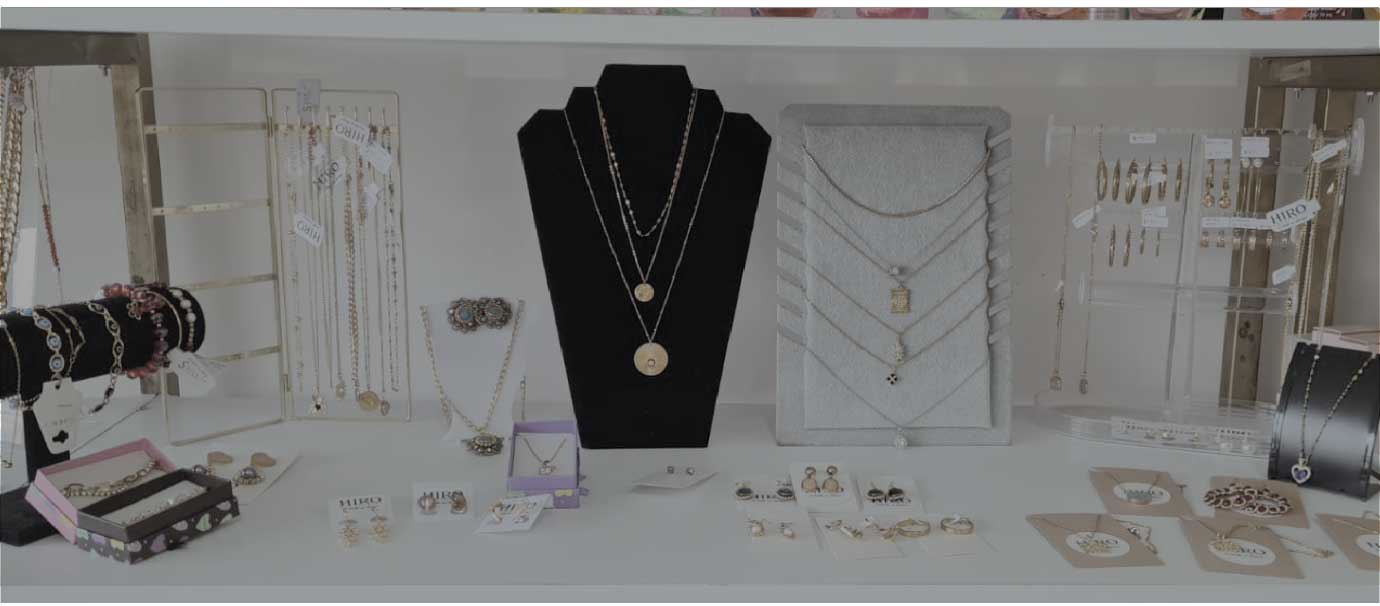
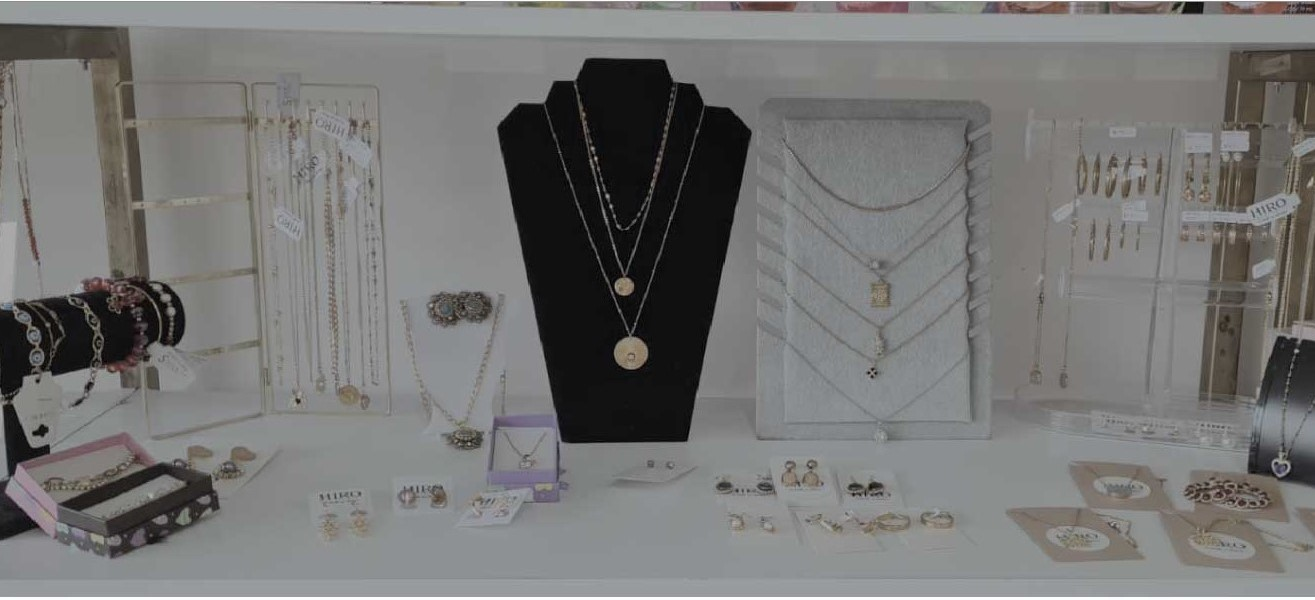
proyecto liisto

diff --git a/index.html b/index.html
@@ -24,13 +24,13 @@
   <header class="menu border-bottom border-dark pb-5">
     <nav class="navbar navbar-expand-lg navbar-light">
       <div class="container-fluid">
-        <img src="./img/logo.png" alt="HIRO">
+        <img src="./img/logo.png" class="mt-3" alt="HIRO">
         <button class="navbar-toggler" type="button" data-bs-toggle="collapse" data-bs-target="#navbarSupportedContent"
           aria-controls="navbarSupportedContent" aria-expanded="false" aria-label="Toggle navigation">
           <span class="navbar-toggler-icon"></span>
         </button>
         <div class="collapse navbar-collapse" id="navbarSupportedContent">
-          <ul class="navbar-nav mx-auto mb-2 mb-lg-0 h3">
+          <ul class="navbar-nav mx-auto mt-4 mb-2 mb-lg-0 h3">
             <li class="nav-item">
               <a class="nav-link active" href="#principal" aria-current="page" href="#">Inicio</a>
             </li>
@@ -61,7 +61,9 @@
       <div class="row pt-5 pb-5 mt-5 mb-5">
         <div class="item puesto pt-5 pb-5 mt-5 mb-5">
           <h1 class="display-1">El detalle que distingue</h1>
-          <h2 class="display-3">Mira nuestra colección</h2>
+          <a href="https://www.instagram.com/p/Cl6zVZzu4UR/" target="_blank">
+            <h2 class="display-4 coleccion">Mira nuestra colección</h2>
+          </a>
         </div>
       </div>
     </div>
@@ -110,55 +112,61 @@
     <div class="container">
       <div class="row">
         <h3 class="mt-5 mb-5 display-3">¡Lo nuevo!</h3>
-        <div class="card col-12 col-md-4 offset-md-2 offset-lg-2">
+        <div class="card col-12 col-md-5 col-lg-4 offset-md-1 offset-lg-1">
           <!--Aquí pon algo-->
           <img src="./img/novedad1.png" class="card-img-top img-fluid rounded" alt="card-img-top">
-          <button type="button" class="btn btn-danger col-6 col-md-6 offset-3 offset-md-3 mt-5 mb-5">¡No te lo pierdas!</button>
-        </div>
-        <div class="card col-12 col-md-4">
+          <div class="boton-novedad mt-5 mb-5">
+            <a href="https://www.instagram.com/hiro_accesorios/" target="_blank">
+              <button type="button" class="btn btn-danger col-7 col-md-6 ">¡Ultimas piezas!</button>
+            </a>
+          </div>
+          
+         </div>
+        <div class="card col-12 col-md-5 col-lg-4 offset-md-1 offset-lg-2">
           <!--Aquí pon algo-->
           <img src="./img/novedad2.png" class="card-img-top img-fluid rounded" alt="card-img-top">
-          <button type="button" class="btn btn-danger col-6 col-md-6 offset-3 offset-md-3 mt-5 mb-5">¡Ultimas piezas!</button>
-        </div>
+          <div class="boton-novedad mt-5 mb-5">
+            <a href="https://www.instagram.com/hiro_accesorios/" target="_blank">
+              <button type="button" class="btn btn-danger col-7 col-md-6 ">¡Ultimas piezas!</button>
+            </a>
+          </div>
+          </div>
         <span class="border"></span>
       </div>
     </div>
-  </section>
-
-  
+  </section>  
 
   <!--Aquí està la sección de beneficios-->
   <section class="beneficios">
-    <a name="beneficios"></a>
+    <a name="beneficios "></a>
     <h3 class="mt-5 mb-5 display-3">¿Por qué nosotros?</h3>
-    <div class="container">
-      <div class="row">
-        <div class="item col-12 col-md-4 p-3">
-          <div class="card border border-dark">
+    <div class="container ">
+      <div class="row ">
+        <div class="item col-12 col-md-4 pt-3 ">
+          <div class="card border border-dark h-100" >
             <img src="img/diamante.svg" class="card-img-top img-fluid mx-auto" alt="card-img-top">
             <div class="card-body">
-              <h5 class="display-5">¡Joyeria que no se mancha!</h5>
+              <h5 class="display-5 fs-1">¡Joyeria que no se mancha!</h5>
             </div>
           </div>
         </div>
-        
-        <div class="item col-12 col-md-4 p-3">
-          <div class="card border border-dark">
+        <div class="item col-12 col-md-4 pt-3 ">
+          <div class="card border border-dark h-100">
             <img src="img/brillo.svg" class="card-img-top img-fluid mx-auto" alt="card-img-top">
             <div class="card-body">
-              <h5 class="display-5">¡Usa tu propio estilo!</h5>
+              <h5 class="display-5 fs-1">¡Usa tu propio estilo!</h5>
             </div>
           </div>
         </div>
-        <div class="item col-12 col-md-4 p-3 ">
-          <div class="card border border-dark">
+        <div class="item col-12 col-md-4 pt-3  ">
+          <div class="card border border-dark h-100">
             <img src="img/mano.svg" class="card-img-top img-fluid mx-auto" alt="card-img-top">
             <div class="card-body">
-              <h5 class="artesanalmente">¡Hecha artesanalmente!</h5>
+              <h5 class="artesanalmente fs-1 ">¡Hecha artesanalmente!</h5>
             </div>
           </div>
         </div>
-        <span class="border"></span>
+        <span class="border mt-5"></span>
       </div>
     </div>
   </section>
@@ -168,20 +176,20 @@
     <a name="contactanos"></a>
     <div class="container">
       <div class="row">
-        <div class="item col-10 offset-1 col-md-5 mt-5 mb-4">
+        <div class="item col-10 offset-1 col-md-4 offset-md-1 mt-5 mb-4">
           <img src="img/contacto.png" class="collar-contacto img-fluid" alt="">
         </div>
-        <div class="border border-dark contacto item col-10 offset-1 col-md-5 mt-md-5">
-          <h3 class="mt-4 mb-4 artesanalmente">¡Contactanos!</h3>
+        <div class="border border-dark contacto item col-10 offset-1 col-md-5 mt-md-5 altura">
+          <h3 class="mt-4 mb-5 artesanalmente fs-1">¡Contactanos!</h3>
 
           <form action="#" method="POST">
-            <input type="text" id="nombre" name="nombre" placeholder="Nombre" class="mb-4" required><br>
+            <input type="text" id="nombre" name="nombre" placeholder="Nombre" class="mb-5" required><br>
 
-            <input type="text" id="apellido" name="apellido" placeholder="Apellido" class="mb-4" required><br>
+            <input type="text" id="apellido" name="apellido" placeholder="Apellido" class="mb-5" required><br>
 
-            <input type="email" id="email" name="email" placeholder="Email" class="mb-4" required><br>
+            <input type="email" id="email" name="email" placeholder="Email" class="mb-5" required><br>
         
-            <textarea id="mensaje" name="mensaje" rows="4" placeholder="Comentarios" class="mb-4" required></textarea><br>
+            <textarea id="mensaje" name="mensaje" rows="4" placeholder="Comentarios" class="mb-5" required></textarea><br>
         
             <input type="submit" class="btn btn-dark mb-4" value="Enviar">
           </form>

diff --git a/css/index.css b/css/index.css
@@ -12,6 +12,7 @@ body {
 .principal {
     background-image: url("../img/main.jpg");
     background-size: cover;
+    background-position: center center;
 }
 
 h1,
@@ -25,12 +26,26 @@ h2 {
     box-shadow: 0 0 1rem 1px rgba(0, 0, 0, 0.5);
 }
 
+.principal a{
+    text-decoration: none;
+}
+
+.coleccion:hover{
+    color:#ffef0f;
+}
+
 .btn-danger {
     background-color: rgb(206, 14, 14);
+    font-size: 1.2rem;
 }
 
 .card {
     border: 0;
+}
+
+.bordes {
+    border: 1px solid #000;
+    box-sizing: border-box;
 }
 
 .text-fit {
@@ -41,14 +56,19 @@ h2 {
 .beneficios img{
     width: 80%;
 }
+
+.altura-beneficios{
+    height: 500px;
+}
+
 .artesanalmente {
     font-size: calc(1.3rem + 2.1vw);
     font-weight: 300;
     line-height: 1.2;
 }
 
-main.item {
-    width: 100%
+.altura{
+    height: 600px;
 }
 
 .collar-contacto {
